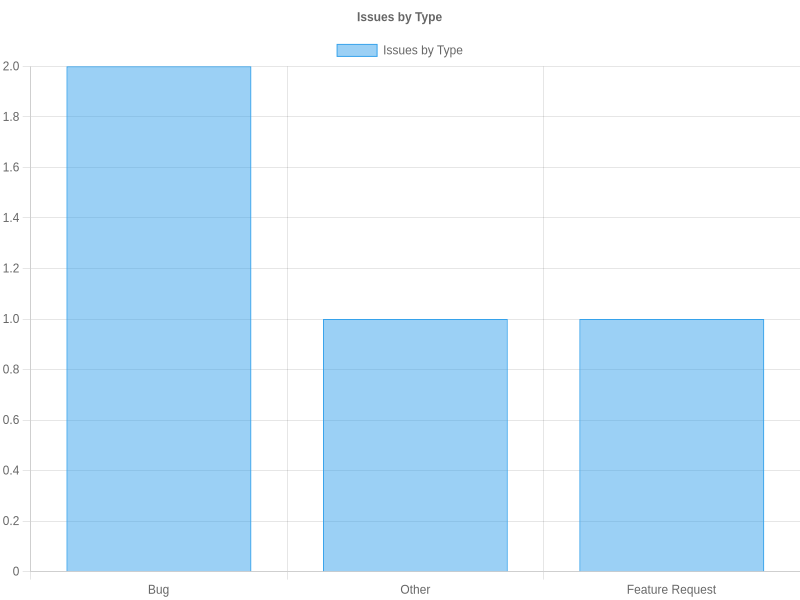
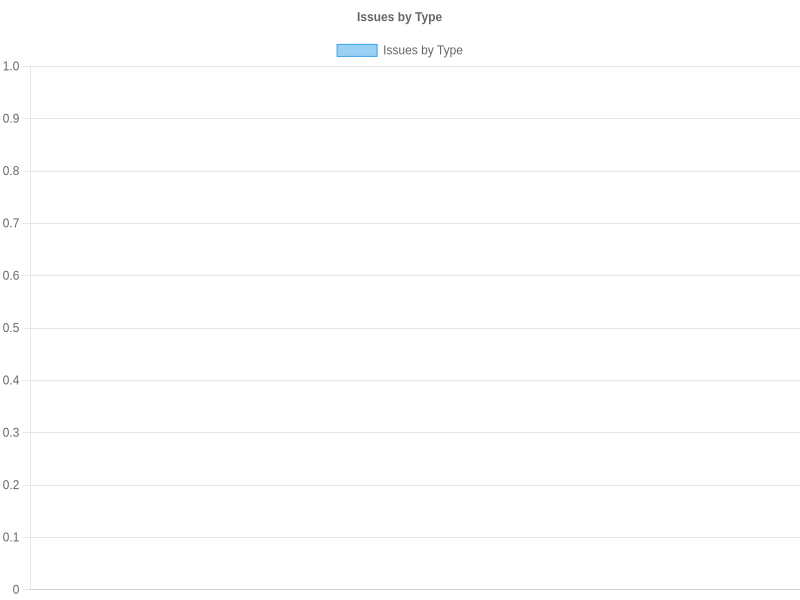
deploy: 07c3749c7718960ff4e5f8d883d745de041b5a2b

diff --git a/index.html b/index.html
@@ -19,18 +19,18 @@
   <body>
       <div class="container mt-4">
           <h1>プロジェクト Issue ダッシュボード</h1>
-          <p>最終更新: 2025/6/25 1:43:53</p>
+          <p>最終更新: 2025/6/25 6:31:00</p>
           
           <div class="row mt-4">
               <div class="col-md-4">
                   <div class="card stat-card">
-                      <div class="stat-number text-primary">4</div>
+                      <div class="stat-number text-primary">0</div>
                       <div>総Issue数</div>
                   </div>
               </div>
               <div class="col-md-4">
                   <div class="card stat-card">
-                      <div class="stat-number text-success">4</div>
+                      <div class="stat-number text-success">0</div>
                       <div>未解決Issue</div>
                   </div>
               </div>
@@ -51,21 +51,6 @@
                       <div class="card-body">
                           <ul class="list-group">
                               
-                                  <li class="list-group-item d-flex justify-content-between align-items-center">
-                                      バグ
-                                      <span class="badge bg-primary rounded-pill">2</span>
-                                  </li>
-                              
-                                  <li class="list-group-item d-flex justify-content-between align-items-center">
-                                      その他
-                                      <span class="badge bg-primary rounded-pill">1</span>
-                                  </li>
-                              
-                                  <li class="list-group-item d-flex justify-content-between align-items-center">
-                                      機能リクエスト
-                                      <span class="badge bg-primary rounded-pill">1</span>
-                                  </li>
-                              
                           </ul>
                       </div>
                   </div>
@@ -78,11 +63,6 @@
                       </div>
                       <div class="card-body">
                           <ul class="list-group">
-                              
-                                  <li class="list-group-item d-flex justify-content-between align-items-center">
-                                      未設定
-                                      <span class="badge bg-primary rounded-pill">4</span>
-                                  </li>
                               
                           </ul>
                       </div>
@@ -146,34 +126,6 @@
                                   </thead>
                                   <tbody>
                                       
-                                          <tr>
-                                              <td>5</td>
-                                              <td><a href="https://github.com/refrainit/python-project-template/issues/5" target="_blank">[バグ]:</a></td>
-                                              <td>バグ</td>
-                                              <td>未設定</td>
-                                          </tr>
-                                      
-                                          <tr>
-                                              <td>4</td>
-                                              <td><a href="https://github.com/refrainit/python-project-template/issues/4" target="_blank">[タスク]:</a></td>
-                                              <td>その他</td>
-                                              <td>未設定</td>
-                                          </tr>
-                                      
-                                          <tr>
-                                              <td>3</td>
-                                              <td><a href="https://github.com/refrainit/python-project-template/issues/3" target="_blank">[機能]:</a></td>
-                                              <td>機能リクエスト</td>
-                                              <td>未設定</td>
-                                          </tr>
-                                      
-                                          <tr>
-                                              <td>2</td>
-                                              <td><a href="https://github.com/refrainit/python-project-template/issues/2" target="_blank">[バグ]:</a></td>
-                                              <td>バグ</td>
-                                              <td>未設定</td>
-                                          </tr>
-                                      
                                   </tbody>
                               </table>
                           </div>
@@ -198,34 +150,6 @@
                                       </tr>
                                   </thead>
                                   <tbody>
-                                      
-                                          <tr>
-                                              <td>2</td>
-                                              <td><a href="https://github.com/refrainit/python-project-template/issues/2" target="_blank">[バグ]:</a></td>
-                                              <td>2025/3/15</td>
-                                              <td>未設定</td>
-                                          </tr>
-                                      
-                                          <tr>
-                                              <td>3</td>
-                                              <td><a href="https://github.com/refrainit/python-project-template/issues/3" target="_blank">[機能]:</a></td>
-                                              <td>2025/3/15</td>
-                                              <td>未設定</td>
-                                          </tr>
-                                      
-                                          <tr>
-                                              <td>4</td>
-                                              <td><a href="https://github.com/refrainit/python-project-template/issues/4" target="_blank">[タスク]:</a></td>
-                                              <td>2025/3/15</td>
-                                              <td>未設定</td>
-                                          </tr>
-                                      
-                                          <tr>
-                                              <td>5</td>
-                                              <td><a href="https://github.com/refrainit/python-project-template/issues/5" target="_blank">[バグ]:</a></td>
-                                              <td>2025/3/15</td>
-                                              <td>未設定</td>
-                                          </tr>
                                       
                                   </tbody>
                               </table>
